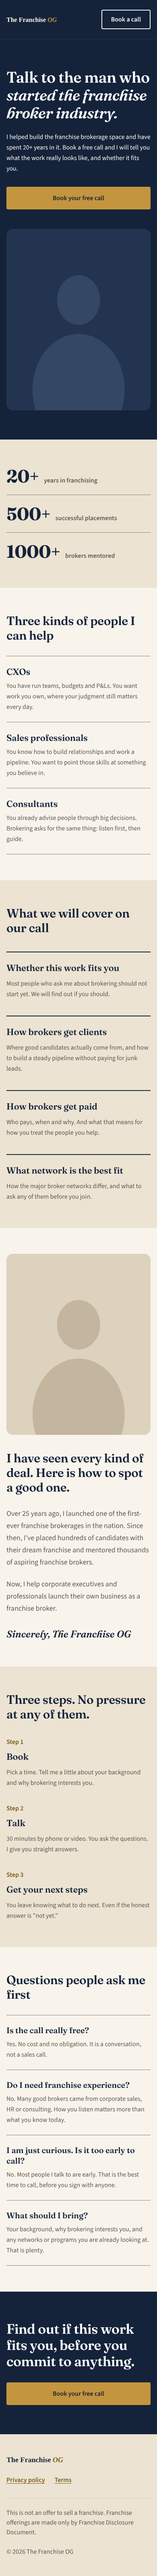
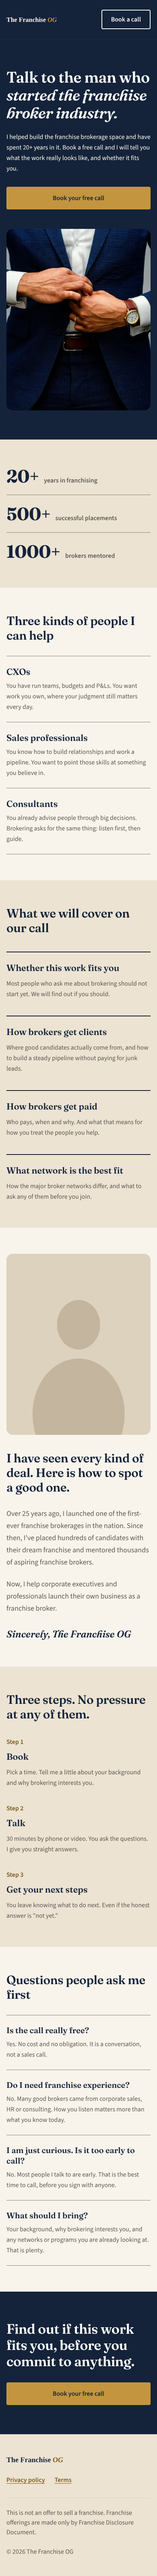
Use suit-and-watch photo in hero
Crop the supplied 2:3 photo to the 4:5 hero frame at 2x (940x1175)
and update its alt text.

Claude-Session: https://claude.ai/code/session_01TxtSxV2SwFMP9KmUtWhP1G

Changed region(s): [[0.0308, 0.0623, 0.9846, 0.1868]]

diff --git a/index.html b/index.html
@@ -31,7 +31,7 @@
           <a class="btn btn--primary" data-booking href="#">Book your free call</a>
         </div>
         <div class="hero__photo">
-          <img class="photo" src="images/og-headshot.jpg" alt="Portrait of The Franchise OG, smiling, in a navy jacket" width="470" height="588">
+          <img class="photo" src="images/og-headshot.jpg" alt="The Franchise OG buttoning a navy suit jacket, wearing a gold watch and wedding ring" width="470" height="588">
         </div>
       </div>
     </section>
